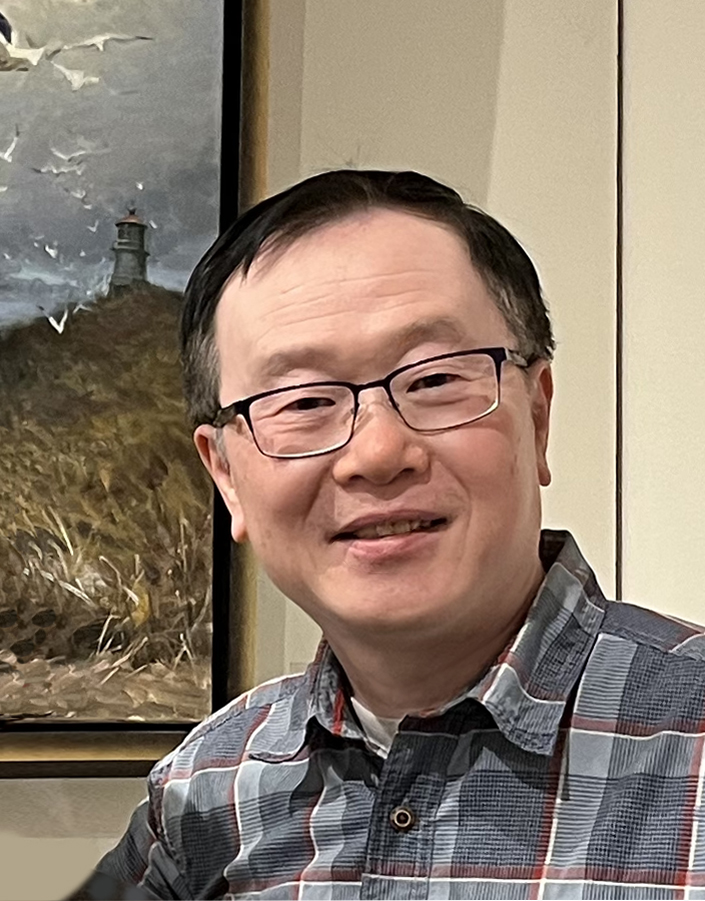
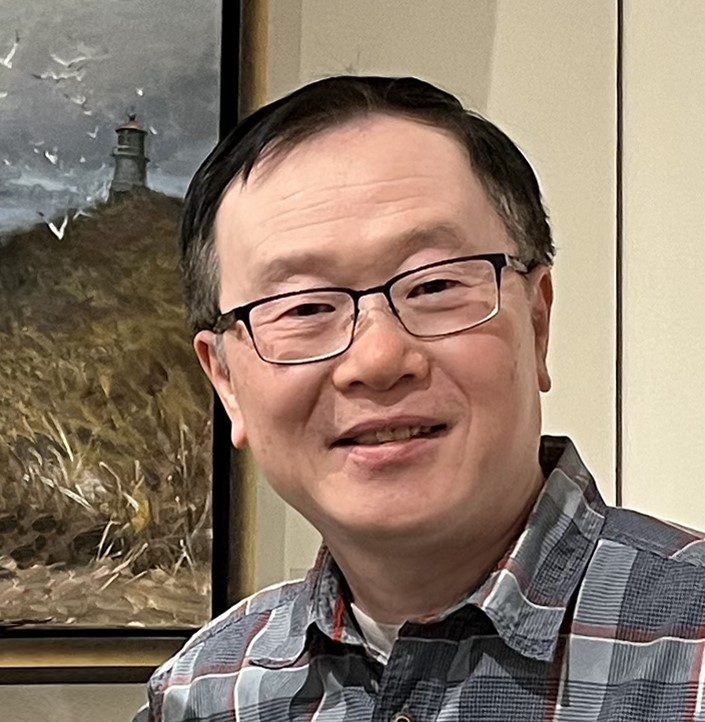
change background pic, resize profile pic

diff --git a/style.css b/style.css
@@ -13,7 +13,7 @@ html {
     font-weight: 400;
 
     /*BACKGROUND:*/
-    background: url('/images/field.jpg');
+    background: url('/images/palet.jpg');
     background-repeat: no-repeat;
     background-size: cover;
     background-attachment: fixed;
